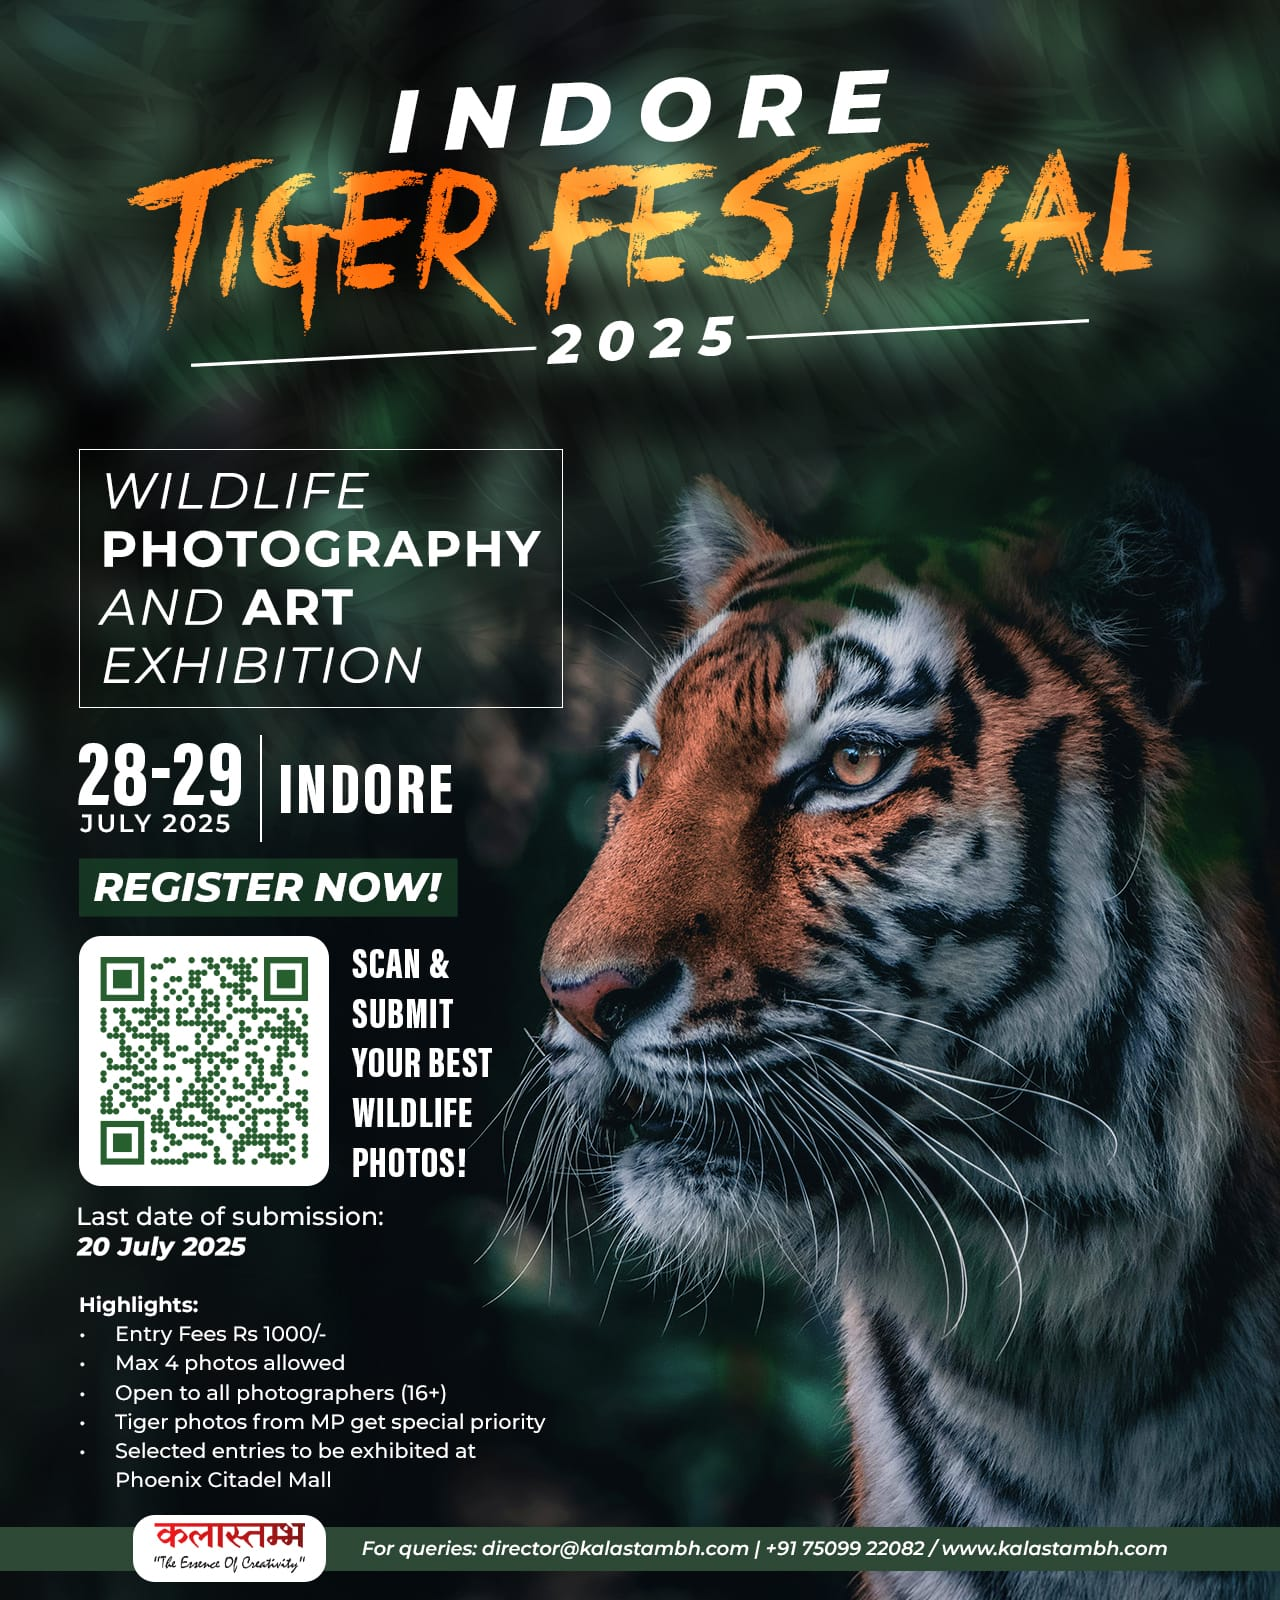
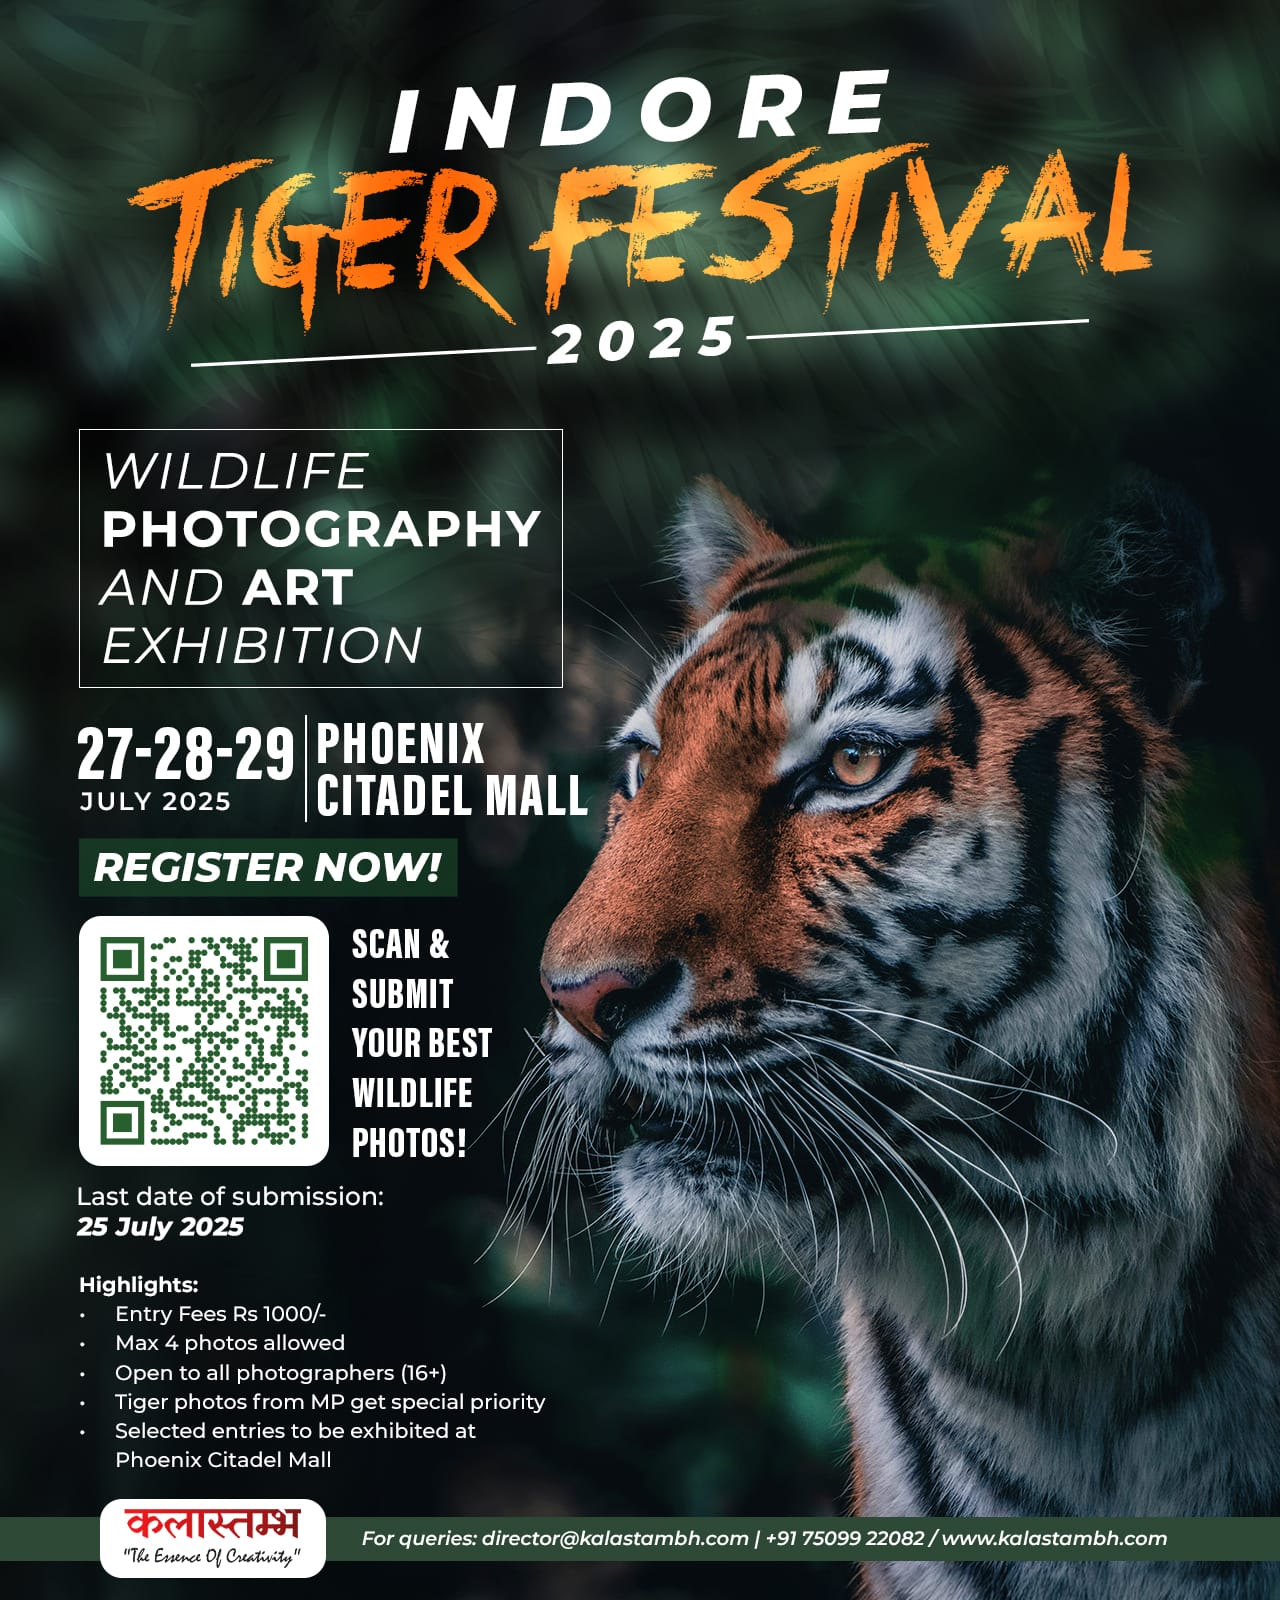
Update details of Indore Tiger Festival 2025

Changed region(s): [[0.0, 0.2812, 1.0, 1.0]]

diff --git a/index.html b/index.html
@@ -37,7 +37,7 @@
     />
     <meta
       name="twitter:description"
-      content="Enter your best tiger & wildlife shots. Get exhibited and awarded at Phoenix Citadel Mall, Indore. Submit by July 15!"
+      content="Enter your best tiger & wildlife shots. Get exhibited and awarded at Phoenix Citadel Mall, Indore. Submit by July 25!"
     />
     <meta property="og:image:type" content="image/jpeg" />
     <meta property="og:image" content="/images/99.jpg" />
@@ -75,8 +75,8 @@
         "@context": "https://schema.org",
         "@type": "Event",
         "name": "Indore Tiger Festival 2025",
-        "startDate": "2025-07-28",
-        "endDate": "2025-08-15",
+        "startDate": "2025-07-27",
+        "endDate": "2025-07-29",
         "eventAttendanceMode": "https://schema.org/OfflineEventAttendanceMode",
         "eventStatus": "https://schema.org/EventScheduled",
         "location": {
@@ -177,33 +177,36 @@
 
             <div class="col-12 pt-5">
               <h4 class="h4 text-center">
-                Presenting Wildlife Photography Exhibition & Contest
+                Presenting Wildlife Photography & Art Exhibition & Contest
               </h4>
               <h1 class="h1 text-center text-uppercase world-heading">
                 <b>Indore Tiger Festival 2025</b>
               </h1>
               <h4 class="h4 text-center">
                 by
-                <b class="color-primary text-uppercase fw-bold">KalaStambh</b>
+                <b class="color-primary text-uppercase fw-bold">Kalastambh</b>
               </h4>
               <h5
                 class="h5 text-center text-uppercase world-sub-heading mt-5 px-5"
               >
                 <b>
-                  Celebrate the spirit of wildlife and photography with
-                  Kalastambh <br />
-                  where every frame roars with passion!  
+                  Celebrate the spirit of wildlife, art, and photography with
+                  Kalastambh — where every frame roars with passion!
                 </b>
               </h5>
+              <p class="text-center mt-3">
+                <strong>Academic Partner:</strong> Medicaps University
+                &nbsp;|&nbsp; <strong>Supported by:</strong> State Press Club,
+                Madhya Pradesh
+              </p>
             </div>
 
             <div class="col-11 col-lg-9">
               <div class="row justify-content-center">
-                <!-- Theme -->
                 <div class="col-11 white-glass-morph lead my-3">
                   <p class="py-3 mb-0 description">
                     <strong style="font-weight: 900"
-                      >Theme: “The Tiger & The Wild”</strong
+                      >Theme: “The Tiger &amp; The Wild”</strong
                     >
                     <br />
                     Special priority will be given to photographs of tigers shot
@@ -215,13 +218,30 @@
                   </p>
                 </div>
 
-                <!-- Dates & Venue -->
+                <div class="col-11 white-glass-morph lead my-3">
+                  <p class="py-3 mb-0">
+                    <strong>Festival Highlight:</strong><br />
+                    A gigantic <strong>15x15 ft (225 sq ft)</strong> Tiger
+                    Portrait created with
+                    <strong>2,00,000 Narmada pebbles (≈600 KG)</strong> — a
+                    <strong>world record attempt</strong>
+                    by a team of 25 artists over 3 continuous days.
+                  </p>
+                </div>
+
+                <div class="col-11 white-glass-morph lead my-3">
+                  <p class="py-3 mb-0">
+                    <strong>Art Exhibition:</strong><br />
+                    Showcasing <strong>50 artworks</strong> by
+                    <strong>25 artists</strong> from across India, centered on
+                    tigers, wildlife, and nature.
+                  </p>
+                </div>
+
                 <div class="col-12 lead d-flex justify-content-center">
                   <div class="event-details">
                     <div class="mt-3">Exhibition Dates</div>
-                    <div>
-                      : <span class="fw-bold">28 July - 15 August 2025</span>
-                    </div>
+                    <div>: <span class="fw-bold">27–29 July 2025</span></div>
 
                     <div class="mt-3">Award Ceremony</div>
                     <div>: <span class="fw-bold">29 July 2025</span></div>
@@ -235,23 +255,26 @@
                     <div class="mt-3">Time</div>
                     <div>: <span class="fw-bold">11 AM to 8 PM</span></div>
 
+                    <div class="mt-3">Contest Opens</div>
+                    <div>: <span class="fw-bold">28 June 2025</span></div>
+
                     <div class="mt-3">Last Date of Submission</div>
-                    <div>: <span class="fw-bold">20 July 2025</span></div>
+                    <div>: <span class="fw-bold">25 July 2025</span></div>
                   </div>
                 </div>
 
-                <!-- Eligibility -->
                 <div class="col-11 white-glass-morph lead my-3">
                   <p class="py-3 mb-0">
                     <strong>Eligibility:</strong><br />
-                    • Open to amateur and professional photographers across
-                    India.<br />
-                    • Participants must be 16 years or older.<br />
-                    • Entry Fee: <strong>₹1000 per picture</strong>
+                    • Open to amateur and professional photographers &amp;
+                    artists across India.<br />
+                    • Participants must be
+                    <strong>14 years or older</strong>.<br />
+                    • Entry Fee: <strong>₹1000 per photograph</strong> &amp;
+                    <strong>₹500 per painting</strong>.
                   </p>
                 </div>
 
-                <!-- CTA -->
                 <div class="col-12 py-4 d-flex justify-content-center">
                   <div
                     class="d-flex flex-column align-items-center text-center"
@@ -259,7 +282,7 @@
                     <a
                       href="https://forms.gle/bNdnBRqwytJLfoGb9"
                       target="_blank"
-                      class="btn btn-success mt-2 fs-4"
+                      class="btn btn-success mt-3 fs-4"
                     >
                       Submit Now!
                     </a>
@@ -270,27 +293,56 @@
                 <div class="col-11 white-glass-morph lead my-3">
                   <p class="description text-sm py-3 mb-0">
                     <strong>Submission Process:</strong><br />
-                    fill the above form:<br />
-                    • Upload up to 4 photographs (.jpg/.jpeg)<br />
-                    • File size: 10MB to 30MB<br />
-                    • Minimum resolution: 300 DPI<br />
+                    • Fill the form here:
+                    <a
+                      href="https://forms.gle/bNdnBRqwytJLfoGb9"
+                      target="_blank"
+                      >https://forms.gle/bNdnBRqwytJLfoGb9</a
+                    ><br />
+                    • Upload up to
+                    <strong>4 photographs</strong> (.jpg/.jpeg)<br />
+                    • File size: <strong>10MB to 30MB</strong><br />
+                    • Minimum resolution: <strong>300 DPI</strong><br />
                     • Rename files as: <code>YourName1</code>,
                     <code>YourName2</code>, etc. <br /><br />
+
                     <strong>Required with each photo:</strong><br />
                     • Title or caption<br />
-                    • Location taken<br />
+                    • Location where the photo was taken<br />
                     • Camera model and settings (optional) <br /><br />
-                    <strong>Editing & Authenticity Guidelines:</strong><br />
+
+                    <strong>Editing &amp; Authenticity Guidelines:</strong
+                    ><br />
                     <strong>Allowed:</strong> Basic edits like brightness,
                     contrast, color balance, cropping<br />
                     <strong>Not Allowed:</strong> Adding/removing objects,
                     AI-generated images, collages, watermarked photos<br />
                     Images must be original and unaltered in subject matter.
                     <br /><br />
-                    <strong>Judging & Exhibition:</strong><br />
+
+                    <strong>Judging &amp; Exhibition:</strong><br />
                     Entries will be evaluated by a panel of wildlife photography
-                    experts. Selected photos will be exhibited at Phoenix
-                    Citadel Mall, Indore.
+                    experts and visual artists. Selected works will be exhibited
+                    at Phoenix Citadel Mall, Indore.
+                  </p>
+                </div>
+
+                <!-- Contact -->
+                <div class="col-11 white-glass-morph lead my-3">
+                  <p class="py-3 mb-0">
+                    <strong>Media &amp; Communication:</strong><br />
+                    Pushkar Soni — Director, Kalastambh<br />
+                    📞 +91 7509922082<br />
+                    📧 director@kalastambh.com
+                  </p>
+                </div>
+
+                <!-- Hashtags -->
+                <div class="col-12 text-center mt-4">
+                  <p class="mb-4">
+                    #IndoreTigerFestival #Kalastambh #TigerAndTheWild
+                    #WorldRecordArt #PebbleArt #PhoenixCitadelIndore
+                    #ArtForWildlife
                   </p>
                 </div>
               </div>

diff --git a/js/main-post.js b/js/main-post.js
@@ -1,5 +1,6 @@
 //post-masonry
 const mediaItems = [
+  { type: 'image', src: 'images/100.jpg', alt: 'Indore Tiger Festival 2025' },
   { type: 'image', src: 'images/99.jpg', alt: 'Indore Tiger Festival 2025' },
   { type: 'image', src: 'images/98.jpg', alt: '' },
   { type: 'image', src: 'images/97.jpg', alt: '' },
